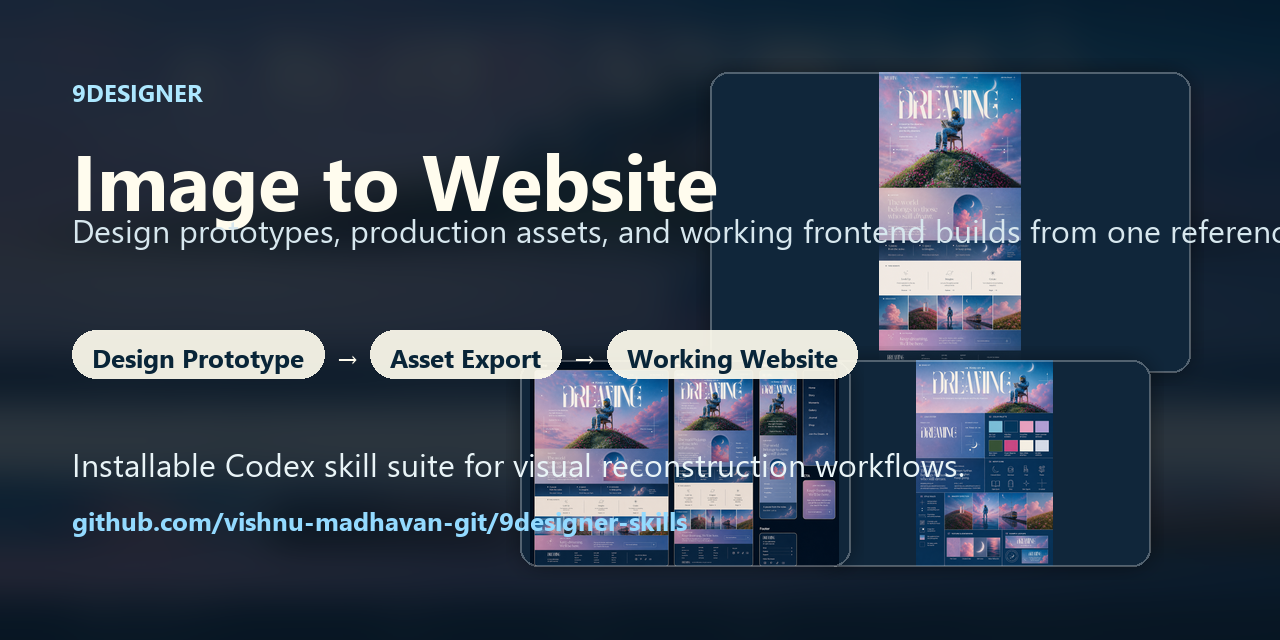
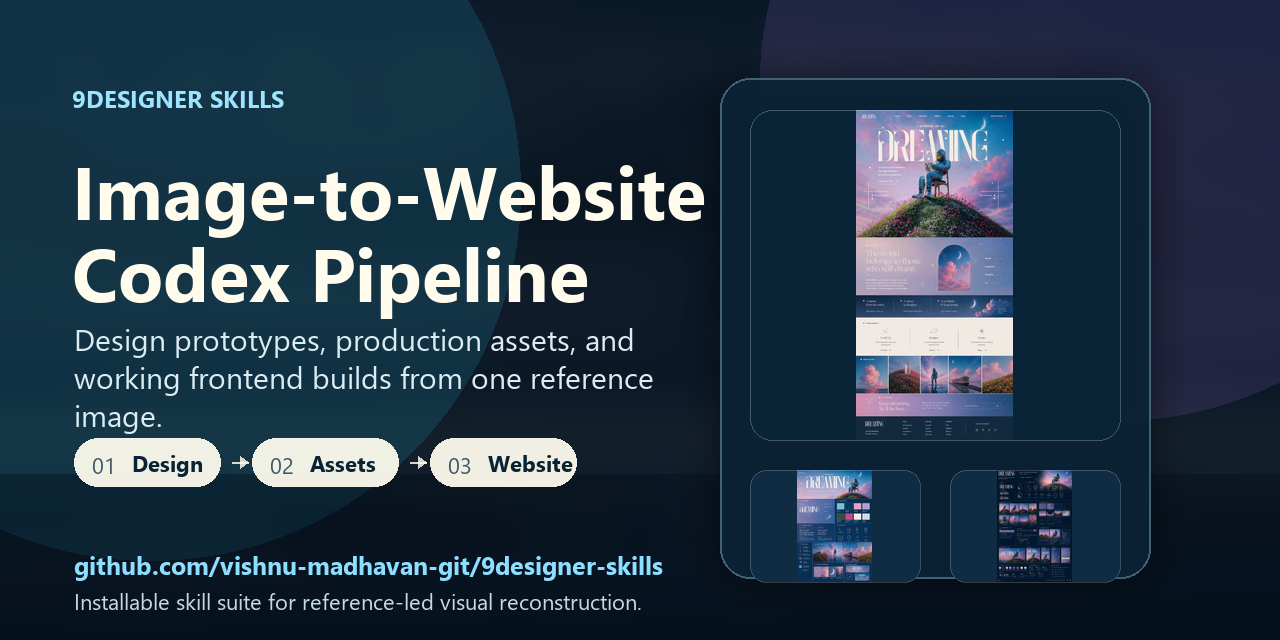
Improve README hero preview

diff --git a/README.md b/README.md
@@ -14,7 +14,9 @@
 
 It is built for visual reconstruction work: reference-led design, exact asset handling, section-by-section implementation specs, and screenshot-based QA.
 
-![9Designer social preview](docs/media/social-preview.png)
+<p align="center">
+  <img src="docs/media/social-preview.png" alt="9Designer image-to-website pipeline preview" width="920">
+</p>
 
 ## Preview
 
